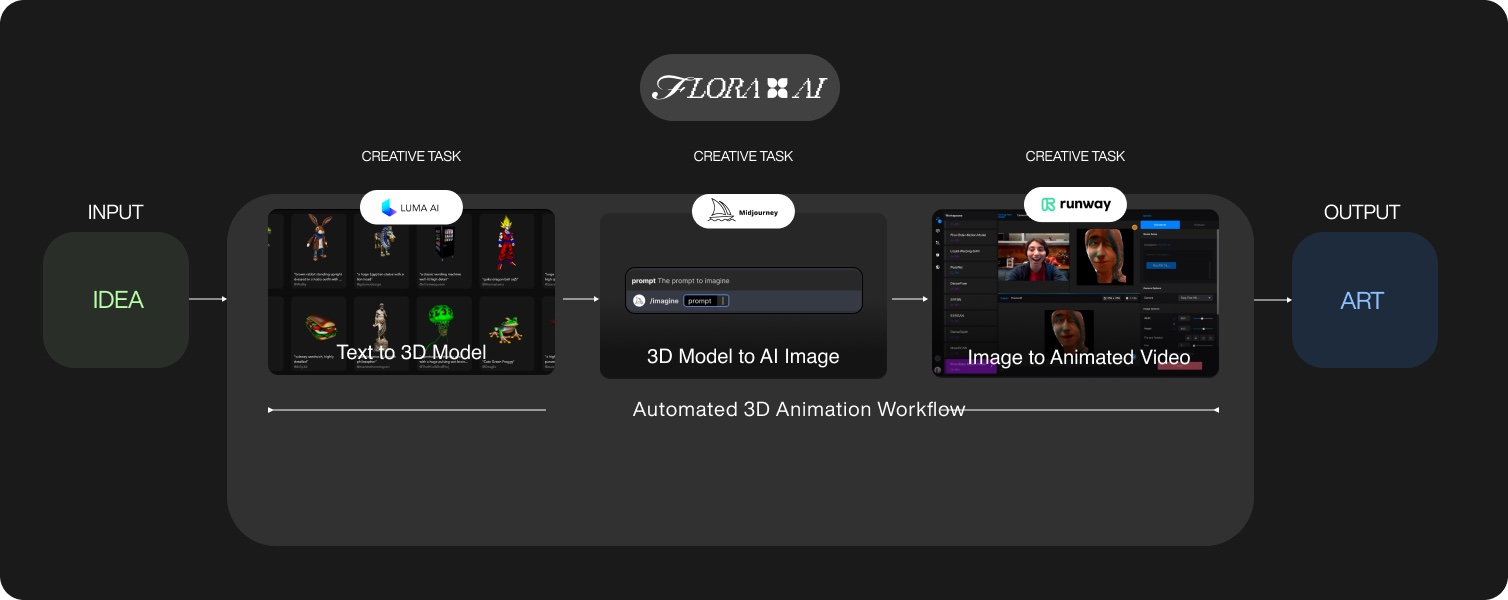
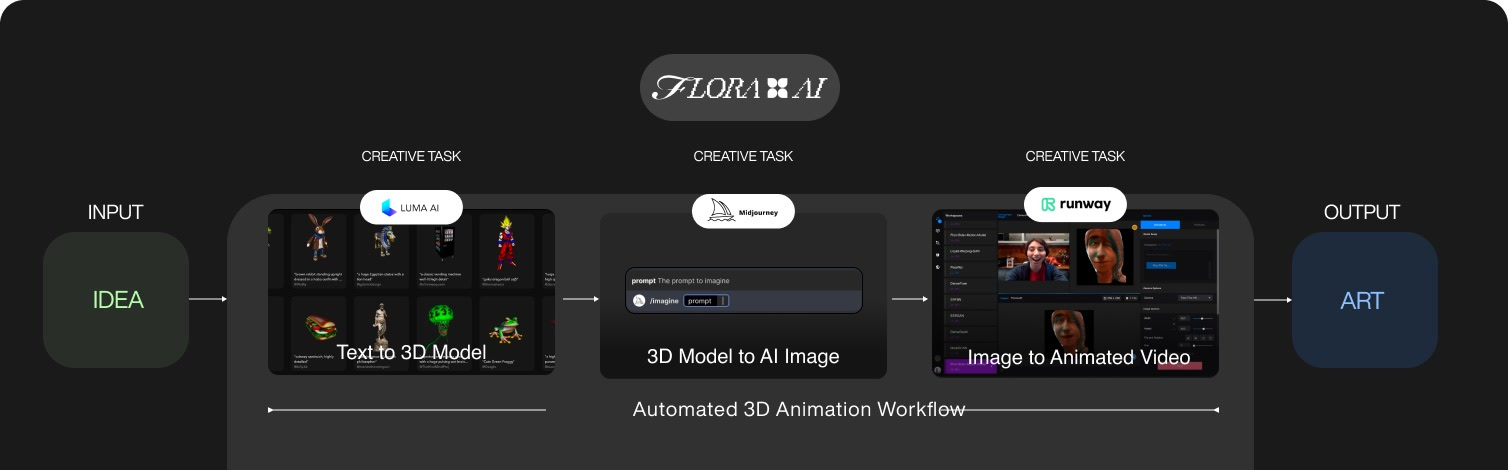
See Live Site, the full type ladder pulled, and two FLORA fixes
The type ladder and the two faces now come off id-idler rather than the baked
block. I had left them baked twice, on the grounds that a naive parse of grouped
tables returns garbage rather than nothing. The contract turned out to be strict:
the ladder is four .ttables carrying identical eight-column headers, the faces
are a fifth with its own. Each is matched on its header row and rejected whole if
it does not match, so a redesign there falls back rather than publishing a
mangled table. Verified both ways again: blocked, the baked six rows stand;
pulled, the six rows match and the faces arrive with their token names and
fallback stacks, which are new.

See Live Site sits under the ledger on the prose column, quiet text and an arrow,
no filled control. Nine of twelve carry one and every URL was checked for a 200
rather than assumed. SOOT, FLORA and Depictions have no live URL anywhere I could
find, so they carry none. The footer's Visit row is suppressed where it would
duplicate the CTA.

Idler's claim is now Identity + Site for Reinforcement Learning Environments.

FLORA: the brand film's caption is removed, and the workflow diagram is cropped
from 1508x600 to 1508x470. Its panel ran on for a third of the frame past its own
content, so the plate was mostly empty ground.

Claude-Session: https://claude.ai/code/session_01HUZNnfyiCCmeMXsRttcQuv

diff --git a/index.html b/index.html
@@ -617,6 +617,16 @@
   .cs-ledger dd{margin:0;color:var(--sw2);}
   .cs-ledger .yr{font-variant-numeric:tabular-nums;}
 
+  /* Sits with the ledger, on the prose column, in the rail's link register:
+     quiet text and an arrow that means "this leaves". No filled control. */
+  .cs-cta{display:grid;grid-template-columns:var(--cs-col) 1fr;gap:var(--cs-gap);
+    margin:-.6rem 0 2.2rem;}
+  .cs-cta a{grid-column:2;}
+  .cs-cta a{justify-self:start;display:inline-flex;align-items:center;gap:.4rem;color:var(--sw2);
+    font-size:.72rem;letter-spacing:.012em;}
+  .cs-cta a:hover{color:var(--accent);}
+  .cs-cta .ar{display:inline-block;width:.62em;height:.62em;}
+  .cs-cta .ar svg{display:block;width:100%;height:100%;}
   /* The plate, carried over from the card so the artifact reads the same in both. */
   .cs-plate{position:relative;width:100%;aspect-ratio:16/9;background:var(--tile);
     overflow:hidden;border-radius:4px;margin-bottom:2.2rem;}
@@ -710,7 +720,8 @@
   }
   @media(max-width:900px){
     .cs{left:0;}
-    .cs-sec,.cs-shot{grid-template-columns:1fr;gap:.7rem;}
+    .cs-sec,.cs-shot,.cs-cta{grid-template-columns:1fr;gap:.7rem;}
+    .cs-cta a{grid-column:1;}
     .cs-ledger{grid-template-columns:repeat(3,1fr);gap:1rem;}
     .cs-sec > :not(.cs-lbl),.cs-shot > figcaption{grid-column:1;}
   }
@@ -918,7 +929,7 @@ document.documentElement.className+=' js';
      Idler additionally carries its brand system read off id-idler.pages.dev — the
      accents, the neutral scale, the six Matter units and the type ladder — checked
      against the live guidelines site, not transcribed from a picture of it. -->
-<script type="application/json" id="cs-data">{"soot":{"name":"SOOT","year":"2024–25","title":"Browsing a Library That Organizes Itself","role":"Lead Product Designer","medium":"Product","status":"Live","hook":"Designed the interaction model for a visual vector database, replacing folders with a spatial field you search, group + publish from.","problem":"Every hard drive is a graveyard of final_v3_REALLY.png. Assets that sort themselves had no precedent as a category. Nobody had drawn the interface primitives yet.","process":"Worked at the primitive level with SOOT, UNNAMED, and Two.much Studio on two questions. What parts does any self-organizing surface need, and how does depth read on a flat screen? Prototyped fast and kept what survived.","solution":"Liquid Metal, a parts library loose enough to prototype any surface quickly, and the Z-index, a way to stack interface in depth so the screen stops pretending to be flat.","impact":"The primitives survived every surface the team tested. For a product still deciding what category it belongs to, that portability was the whole point."},"flora":{"name":"FLORA","year":"2024","title":"Connecting Creative Systems","role":"Founding Designer","medium":"Product","status":"Live","hook":"Designed a node-based canvas that connects creative tools into one process, so a project moves between them without leaving the environment.","shots":[{"src":"/stage/flora/01.mp4","poster":"/stage/flora/01.jpg","ratio":"1440/810","alt":"The FLORA brand film: a glass bloom opening, closing on the wordmark","cap":"A glass bloom opens and closes on the lockup: automating creative systems."},{"src":"/stage/flora/02.jpg","ratio":"1440/810","alt":"An empty FLORA project with the Node Center open: models on the right, logic beneath them","cap":"Project 001, before the first node."},{"src":"/stage/flora/03.jpg","ratio":"1508/600","alt":"The automated 3D animation workflow, idea to art, across three chained creative tasks","cap":"Luma to Midjourney to Runway, chained on the canvas instead of carried between applications by hand."}],"system":{"named":"Hieronymous","board":{"src":"/stage/flora/moodboard.jpg","ratio":"1600/424","alt":"The Hieronymous reference board: Bosch, Nam June Paik, Iris van Herpen, Gisela Colón"},"references":["Hieronymus Bosch","Nam June Paik","Iris van Herpen","Gisela Colón"]}},"idler":{"name":"Idler","year":"2026","title":"A Worldsite for Reinforcement Learning Environments","role":"Design Director","medium":"Identity + Site","status":"Live","hook":"Developed the identity and launch system for Idler, translating its agent-training environments into a visual language across brand, motion, and web.","problem":"Idler builds reinforcement-learning environments and long-horizon evals that push frontier coding models past what any benchmark suite reaches. They sell into the labs training those models.","process":"Strategy first, then a system to carry it. The spine is process: how an environment gets sourced, verified, and graded. That is what a researcher checks before trusting any of it. Grading is pass or fail, never a dense reward signal, and training and eval stay separate tiers. The register is light and exact, against a category that defaults to dark and edge-lit.","impact":"A brand system and a launch worldsite, live at idler.ai. Two weeks for the first sprint, a second for launch collateral and the site expansion.\n\nAn application kit covers the surfaces the product actually needs: leaderboards, task cards, metric switchers, progress with confidence intervals, the five run states. The rest of the documentation is a working reference, with mark files at every lockup and tile, color and grayscale on live tokens, and the motion turns named frame by frame.\n\nThe references are published alongside it. Mohr and LeWitt exhaust the cube as a finite alphabet; Gerstner designs the program that makes the posters. Molnár holds disorder under control. The Ben-Day screen carries tone through density, one mark at one size, which is the whole argument for the halftone read. Aicher runs an entire sign system off a single grid. Turrell occludes the source until the structure appears. A beetle's shell is iridescent from its geometry, with no pigment in it.","system":{"url":"https://id-idler.pages.dev/","swatches":[{"name":"Cinnabar","hex":"#F25D13","note":"Stop"},{"name":"Citrine","hex":"#E2F53A","note":"Queue"},{"name":"Aquamarine","hex":"#39CEF4","note":"Run"},{"name":"Jade","hex":"#39E1B4","note":"Idle"},{"name":"Emerald","hex":"#04A93B","note":"Go"},{"name":"Amethyst","hex":"#CC3AF5","note":""},{"name":"Ruby","hex":"#F53A53","note":""}],"ramp":["#F2F2F2","#EBEBEB","#E0E0E0","#D3D3D3","#C4C4C4","#B3B3B3","#A2A2A2","#8F8F8F","#7C7C7C","#676767","#525252","#3C3C3C"],"units":[{"name":"Proton","token":"circle","form":"circle","state":"fill"},{"name":"Electron","token":"triangle","form":"triangle","state":"fill"},{"name":"Neutron","token":"square","form":"square","state":"fill"},{"name":"Aperture","token":"circle-hole","form":"circle","state":"hole"},{"name":"Portal","token":"triangle-hole","form":"triangle","state":"hole"},{"name":"Socket","token":"square-hole","form":"square","state":"hole"}],"type":{"cols":["Step","Face","Size","Leading","Tracking"],"rows":[["Hero","Tekio Grotesk","4.5 rem / 72 px","90%","-1%"],["Heading","Tekio Grotesk","3 rem / 48 px","90%","-0.5%"],["Statement","Tekio Grotesk","2.25 rem / 36 px","90%","-0.5%"],["Body","Tekio Grotesk","1 rem / 16 px","100%","-0.5%"],["Numeral","PX Grotesk","1 rem / 16 px","90%","0%"],["Caption","PX Grotesk","1 rem / 16 px","100%","1.5%"]]}},"solution":"The mark is the Shell, Idler's model of an environment: a closed structure agents move through and are judged inside. Look down its body diagonal and it flattens to a hexagon of three rhombi, the three near edges meeting in a Y. Neither is drawn. Both fall out of the geometry, so the mark is the space between the faces rather than a line laid over them.\n\nUnder it sits a closed vocabulary. The primitive is a substance, so the category is Matter: three forms, two states, solid or opened. Six units, and no seventh. A seventh would have to declare what it was made of, and there is nothing left to declare. Everything downstream is those six at different densities.","plate":{"src":"/stage/idler/plate.mp4","poster":"/stage/idler/plate.jpg"}},"studio-artifice":{"name":"Studio Artifice","year":"2026","title":"A Strategic Visual Studio, Self-Presented","role":"Founder + Creative Director","medium":"Studio + Site","status":"Live","hook":"Built the studio's own worldsite on the system it sells, with one mark that recombines across every surface the practice appears on."},"osmosis":{"name":"Osmosis","year":"2025","title":"Mist Permeation for RL/ML Identity","role":"Design Director","medium":"Identity + Site","status":"Live","hook":"Directed an identity drawn from Huang Gongwang's Fuchun Mountains, carrying mist, water + stone into one brush-and-wash system.","problem":"Osmosis builds task-specific models that beat the frontier foundation models at a fraction of the cost, but its category (post-training, GRPO, DAPO) reads as jargon to the exact teams who need it most. The name already contained the right idea, intelligence absorbed gradually through contact. It just wasn't doing any work.","process":"Started from that idea and pressure-tested whether it could hold the whole system: positioning, wordmark, type, and a gradient language where absorption itself is the argument.","solution":"A restrained, technical wordmark and type system that survives the jump from a research note to an enterprise deck, plus positioning that reframes RL from a black box into something that seeps into a company's own data and compounds.","impact":"Live at osmosis.ai. Work that used to read as arcane now reads as obvious, and one identity reaches both the engineer skimming a research note and the buyer sitting through the deck."},"lighthouse":{"name":"Lighthouse","year":"2026","title":"U.S. Visas for Frontier Talent","role":"Lead Designer","medium":"Identity + Site","status":"Live","hook":"Designed a two-sided visa product: a talent-facing application + the enterprise stack the hiring company runs it through.","problem":"Most immigration products sell relief from paperwork. Lighthouse sells the opposite: immigration as how a company lands the people everyone else is chasing. Its 1.0 didn't yet carry that weight, and the identity had to convince the HR leaders who actually sign.","process":"Directed and designed the identity up from that 1.0, pushing it to something enterprise-grade without flattening the optimism in the premise. American excellence as a reason for the world's best to move here and build.","solution":"One system across brand and website, credible to the enterprise buyer and built for the sales motion, not the design award.","impact":"An identity aimed squarely at the people making the call on where global talent lands."},"the-artifact-index":{"name":"The Artifact Index","year":"2026","title":"A Structured, Relational Dataset of Creative Process","role":"Creative Director","medium":"Product","status":"Live","hook":"Designed a public archive that keeps every artifact's people, materials + revisions attached to the record, and an open intake anyone can send work to.","problem":"Archives index outputs. The finished piece survives with a date and a credit line, and everything that produced it disappears: the discarded direction, the constraint that forced the pivot, the person who made the call. Cultural work gets remembered as objects when the useful part was always the process.","process":"Built as a relational schema before it was built as a site. Four connected books move from discovery to attribution to place to permanent record, sharing one spine so an artifact can point at the people, the venue, and the world that made it. Two operating modes run through all of it. WHITEBOX is process-visible and reproducible. BLACKBOX is experiential and happens once. A record is one or the other, never both, because that distinction changes what the archive can honestly claim. Attribution and consent live in the schema, not in a policy page nobody reads.","solution":"A free, public, citable dataset of creative process, with provenance on every record and profiles able to restrict or withdraw what they contributed.","impact":"Infrastructure for Artifice NYC programming and the reference layer institutional partners get pitched on. The schema is live and the first events are indexed.","plate":{"src":"/stage/the-artifact-index/plate.mp4","poster":"/stage/the-artifact-index/plate.jpg"}},"industrial-lighting":{"name":"Aputure","year":"2024","title":"One Conversion System Across a Dozen Markets","role":"Designer","medium":"Global Site","status":"Live","hook":"Rebuilt the catalog to sell on what the light does on set, running one template system across every market Aputure ships to.","problem":"Aputure lights real productions, but the site still sold fixtures like hardware. Spec-led, and identical across a dozen markets that each shoot, read, and buy differently. The direction had to catch up to the work.","process":"Rebuilt the site around the buying decision, not the spec sheet. Cinematic, not clinical, so one visual language could serve a gaffer pricing a fixture and a DP reading a case study.","solution":"Full-bleed product heroes, families browsable at a glance, benefit-led headlines over spec dumps, and on-set storytelling running alongside the catalog.","impact":"A global site where lighting reads as craft, running across a dozen localized markets on one system with no per-market fork."},"artifice-brand":{"name":"Artifice Brand Identity","year":"2026","title":"A Living Spec for a Curatorial Research Organization","role":"Creative Director","medium":"Identity","status":"Live","hook":"Wrote the identity for a curatorial research organization as a living spec: carbon + chalk, a single accent, one document that updates as the work does.","system":{"url":"https://brand.artificenyc.org/","swatches":[{"name":"Carbon","hex":"#0E0E0E","note":"Ground"},{"name":"Chalk","hex":"#FCFAF5","note":"Text on carbon"},{"name":"Cobalt","hex":"#0000EE","note":"Links on chalk"},{"name":"Cobalt","hex":"#5A6CFF","note":"Links on carbon"}],"pairs":[{"term":"WHITEBOX","sub":"Lab","def":"Work in development, shown while it is still being made. Rigs stay visible, materials stay labeled, and the maker is usually in the room. Even light, no blackout."},{"term":"BLACKBOX","sub":"Stage","def":"Finished work on a schedule. Performance, film and installation, run for an audience that arrives at a set time. Blackout, sound, projection."}],"marks":[{"name":"Lockup","note":"parent mark","min":"96px wide"},{"name":"Wordmark","note":"fixed art","min":"120px wide"},{"name":"Hexagon","note":"WHITEBOX","min":"24px tall"},{"name":"Asterisk","note":"BLACKBOX","min":"24px tall"}],"type":{"cols":["Step","Size","Case","Tracking"],"rows":[["Display","40–96 px","Sentence","−1.5%"],["Heading","34–64 px","Sentence","−1.5%"],["Subhead","24–48 px","Sentence","−1.5%"],["Body","15–18 px","Sentence","−1.5%"],["Caption/label","11 px","Uppercase","−1%"]]},"face":"Helvetica Now Display"}},"depictions-of-original-sin":{"name":"Google Labs (Veo3)","year":"2025","title":"The Depictions of Original Sin","role":"Creative Director","medium":"Creative Production · In Progress","status":"In Progress","hook":"Directed an immersive projection for an AI film festival, working with six invited creative directors on Veo 3.","problem":"An Artifice × Google Labs collaboration gathering six creative directors around Veo 3. The risk was obvious: a festival of AI-made film reading as six disconnected experiments, not one work.","process":"Creative direction across the program, shaping the through-line that lets six directors work on Veo 3 toward a single immersive projection.","solution":"An immersive projection and AI film festival built on Veo 3, presented as one coherent piece.","impact":"In progress with Google Labs."},"artifactory":{"name":"ARTIFACTORY","year":"2026","title":"Interactive 3D design environment","role":"Designer + Developer","medium":"Product","status":"Live","hook":"Designed and built a browser tool for composing objects, tuning materials and scenes live, and exporting a self-contained embed.","problem":"Motion-graphics reference is everywhere. The tools that make it are not. Every 3D environment asks you to learn it before you can make anything with it, so the people with enough taste to art-direct a shader mostly never touch one. What stops them is the tutorial, not the imagination.","process":"It started as one question: can designing in 3D feel like playing a modular synth? Everything followed from that. A pot sweeps a magnitude. A switch picks a mode. Real hardware makes you feel that difference before you read the legend, so every discrete control got a detented selector with printed words where a dial showing a number would have lied. The trap here is skeuomorphism without the physics. An early knob pass looked right and fought the hand, which is worse than a plain slider would have been. If a control reads as hardware it has to answer like hardware.","solution":"Forty shaders, 91 tunable parameters, and you play it, you don't configure it. Sliders ship next to the knobs as the accessibility floor, the way Ableton and Logic both do. Whatever you tune exports as a self-contained embed that drops into a site with no build step.","impact":"408 commits between April and July 2026 took this from a question to a working environment someone can pick up without a tutorial. What it does not have yet is usage data. That is the next thing to prove."},"biota":{"name":"BIOTA","year":"2025","title":"Prompting as a Social Feed","role":"Designer","medium":"Product","status":"Live","hook":"Designed the logotype, icon set + app assets for a mobile generation tool where every post is a template someone else can remix, and each imagining is metered in water.","problem":"Biota generates photos and video from a text prompt on iOS and Android. Every generation costs the user something real, so the interface has to make the spend legible before it is spent rather than after.","solution":"Generation sits inside a feed rather than behind a blank prompt box. Posts run TOP and NEW, each one carries Remix, and a remix opens the prompt that made it with its media slots and tone already filled in, so the empty state is somebody else's finished work.\n\nSpend is denominated in water. The balance sits in the header, the cost sits on the button that charges it, and the wait has its own state rather than a spinner."}}</script>
+<script type="application/json" id="cs-data">{"soot":{"name":"SOOT","year":"2024–25","title":"Browsing a Library That Organizes Itself","role":"Lead Product Designer","medium":"Product","status":"Live","hook":"Designed the interaction model for a visual vector database, replacing folders with a spatial field you search, group + publish from.","problem":"Every hard drive is a graveyard of final_v3_REALLY.png. Assets that sort themselves had no precedent as a category. Nobody had drawn the interface primitives yet.","process":"Worked at the primitive level with SOOT, UNNAMED, and Two.much Studio on two questions. What parts does any self-organizing surface need, and how does depth read on a flat screen? Prototyped fast and kept what survived.","solution":"Liquid Metal, a parts library loose enough to prototype any surface quickly, and the Z-index, a way to stack interface in depth so the screen stops pretending to be flat.","impact":"The primitives survived every surface the team tested. For a product still deciding what category it belongs to, that portability was the whole point."},"flora":{"name":"FLORA","year":"2024","title":"Connecting Creative Systems","role":"Founding Designer","medium":"Product","status":"Live","hook":"Designed a node-based canvas that connects creative tools into one process, so a project moves between them without leaving the environment.","shots":[{"src":"/stage/flora/01.mp4","poster":"/stage/flora/01.jpg","ratio":"1440/810","alt":"The FLORA brand film: a glass bloom opening, closing on the wordmark"},{"src":"/stage/flora/02.jpg","ratio":"1440/810","alt":"An empty FLORA project with the Node Center open: models on the right, logic beneath them","cap":"Project 001, before the first node."},{"src":"/stage/flora/03.jpg","ratio":"1508/470","alt":"The automated 3D animation workflow, idea to art, across three chained creative tasks","cap":"Luma to Midjourney to Runway, chained on the canvas instead of carried between applications by hand."}],"system":{"named":"Hieronymous","board":{"src":"/stage/flora/moodboard.jpg","ratio":"1600/424","alt":"The Hieronymous reference board: Bosch, Nam June Paik, Iris van Herpen, Gisela Colón"},"references":["Hieronymus Bosch","Nam June Paik","Iris van Herpen","Gisela Colón"]}},"idler":{"name":"Idler","year":"2026","title":"Identity + Site for Reinforcement Learning Environments","role":"Design Director","medium":"Identity + Site","status":"Live","hook":"Developed the identity and launch system for Idler, translating its agent-training environments into a visual language across brand, motion, and web.","problem":"Idler builds reinforcement-learning environments and long-horizon evals that push frontier coding models past what any benchmark suite reaches. They sell into the labs training those models.","process":"Strategy first, then a system to carry it. The spine is process: how an environment gets sourced, verified, and graded. That is what a researcher checks before trusting any of it. Grading is pass or fail, never a dense reward signal, and training and eval stay separate tiers. The register is light and exact, against a category that defaults to dark and edge-lit.","impact":"A brand system and a launch worldsite, live at idler.ai. Two weeks for the first sprint, a second for launch collateral and the site expansion.\n\nAn application kit covers the surfaces the product actually needs: leaderboards, task cards, metric switchers, progress with confidence intervals, the five run states. The rest of the documentation is a working reference, with mark files at every lockup and tile, color and grayscale on live tokens, and the motion turns named frame by frame.\n\nThe references are published alongside it. Mohr and LeWitt exhaust the cube as a finite alphabet; Gerstner designs the program that makes the posters. Molnár holds disorder under control. The Ben-Day screen carries tone through density, one mark at one size, which is the whole argument for the halftone read. Aicher runs an entire sign system off a single grid. Turrell occludes the source until the structure appears. A beetle's shell is iridescent from its geometry, with no pigment in it.","system":{"url":"https://id-idler.pages.dev/","swatches":[{"name":"Cinnabar","hex":"#F25D13","note":"Stop"},{"name":"Citrine","hex":"#E2F53A","note":"Queue"},{"name":"Aquamarine","hex":"#39CEF4","note":"Run"},{"name":"Jade","hex":"#39E1B4","note":"Idle"},{"name":"Emerald","hex":"#04A93B","note":"Go"},{"name":"Amethyst","hex":"#CC3AF5","note":""},{"name":"Ruby","hex":"#F53A53","note":""}],"ramp":["#F2F2F2","#EBEBEB","#E0E0E0","#D3D3D3","#C4C4C4","#B3B3B3","#A2A2A2","#8F8F8F","#7C7C7C","#676767","#525252","#3C3C3C"],"units":[{"name":"Proton","token":"circle","form":"circle","state":"fill"},{"name":"Electron","token":"triangle","form":"triangle","state":"fill"},{"name":"Neutron","token":"square","form":"square","state":"fill"},{"name":"Aperture","token":"circle-hole","form":"circle","state":"hole"},{"name":"Portal","token":"triangle-hole","form":"triangle","state":"hole"},{"name":"Socket","token":"square-hole","form":"square","state":"hole"}],"type":{"cols":["Step","Face","Size","Leading","Tracking"],"rows":[["Hero","Tekio Grotesk","4.5 rem / 72 px","90%","-1%"],["Heading","Tekio Grotesk","3 rem / 48 px","90%","-0.5%"],["Statement","Tekio Grotesk","2.25 rem / 36 px","90%","-0.5%"],["Body","Tekio Grotesk","1 rem / 16 px","100%","-0.5%"],["Numeral","PX Grotesk","1 rem / 16 px","90%","0%"],["Caption","PX Grotesk","1 rem / 16 px","100%","1.5%"]]}},"solution":"The mark is the Shell, Idler's model of an environment: a closed structure agents move through and are judged inside. Look down its body diagonal and it flattens to a hexagon of three rhombi, the three near edges meeting in a Y. Neither is drawn. Both fall out of the geometry, so the mark is the space between the faces rather than a line laid over them.\n\nUnder it sits a closed vocabulary. The primitive is a substance, so the category is Matter: three forms, two states, solid or opened. Six units, and no seventh. A seventh would have to declare what it was made of, and there is nothing left to declare. Everything downstream is those six at different densities.","plate":{"src":"/stage/idler/plate.mp4","poster":"/stage/idler/plate.jpg"},"live":"https://idler.ai"},"studio-artifice":{"name":"Studio Artifice","year":"2026","title":"A Strategic Visual Studio, Self-Presented","role":"Founder + Creative Director","medium":"Studio + Site","status":"Live","hook":"Built the studio's own worldsite on the system it sells, with one mark that recombines across every surface the practice appears on.","live":"https://studioartifice.com"},"osmosis":{"name":"Osmosis","year":"2025","title":"Mist Permeation for RL/ML Identity","role":"Design Director","medium":"Identity + Site","status":"Live","hook":"Directed an identity drawn from Huang Gongwang's Fuchun Mountains, carrying mist, water + stone into one brush-and-wash system.","problem":"Osmosis builds task-specific models that beat the frontier foundation models at a fraction of the cost, but its category (post-training, GRPO, DAPO) reads as jargon to the exact teams who need it most. The name already contained the right idea, intelligence absorbed gradually through contact. It just wasn't doing any work.","process":"Started from that idea and pressure-tested whether it could hold the whole system: positioning, wordmark, type, and a gradient language where absorption itself is the argument.","solution":"A restrained, technical wordmark and type system that survives the jump from a research note to an enterprise deck, plus positioning that reframes RL from a black box into something that seeps into a company's own data and compounds.","impact":"Live at osmosis.ai. Work that used to read as arcane now reads as obvious, and one identity reaches both the engineer skimming a research note and the buyer sitting through the deck.","live":"https://osmosis.ai"},"lighthouse":{"name":"Lighthouse","year":"2026","title":"U.S. Visas for Frontier Talent","role":"Lead Designer","medium":"Identity + Site","status":"Live","hook":"Designed a two-sided visa product: a talent-facing application + the enterprise stack the hiring company runs it through.","problem":"Most immigration products sell relief from paperwork. Lighthouse sells the opposite: immigration as how a company lands the people everyone else is chasing. Its 1.0 didn't yet carry that weight, and the identity had to convince the HR leaders who actually sign.","process":"Directed and designed the identity up from that 1.0, pushing it to something enterprise-grade without flattening the optimism in the premise. American excellence as a reason for the world's best to move here and build.","solution":"One system across brand and website, credible to the enterprise buyer and built for the sales motion, not the design award.","impact":"An identity aimed squarely at the people making the call on where global talent lands.","live":"https://www.lighthousehq.com"},"the-artifact-index":{"name":"The Artifact Index","year":"2026","title":"A Structured, Relational Dataset of Creative Process","role":"Creative Director","medium":"Product","status":"Live","hook":"Designed a public archive that keeps every artifact's people, materials + revisions attached to the record, and an open intake anyone can send work to.","problem":"Archives index outputs. The finished piece survives with a date and a credit line, and everything that produced it disappears: the discarded direction, the constraint that forced the pivot, the person who made the call. Cultural work gets remembered as objects when the useful part was always the process.","process":"Built as a relational schema before it was built as a site. Four connected books move from discovery to attribution to place to permanent record, sharing one spine so an artifact can point at the people, the venue, and the world that made it. Two operating modes run through all of it. WHITEBOX is process-visible and reproducible. BLACKBOX is experiential and happens once. A record is one or the other, never both, because that distinction changes what the archive can honestly claim. Attribution and consent live in the schema, not in a policy page nobody reads.","solution":"A free, public, citable dataset of creative process, with provenance on every record and profiles able to restrict or withdraw what they contributed.","impact":"Infrastructure for Artifice NYC programming and the reference layer institutional partners get pitched on. The schema is live and the first events are indexed.","plate":{"src":"/stage/the-artifact-index/plate.mp4","poster":"/stage/the-artifact-index/plate.jpg"},"live":"https://index.artificenyc.org"},"industrial-lighting":{"name":"Aputure","year":"2024","title":"One Conversion System Across a Dozen Markets","role":"Designer","medium":"Global Site","status":"Live","hook":"Rebuilt the catalog to sell on what the light does on set, running one template system across every market Aputure ships to.","problem":"Aputure lights real productions, but the site still sold fixtures like hardware. Spec-led, and identical across a dozen markets that each shoot, read, and buy differently. The direction had to catch up to the work.","process":"Rebuilt the site around the buying decision, not the spec sheet. Cinematic, not clinical, so one visual language could serve a gaffer pricing a fixture and a DP reading a case study.","solution":"Full-bleed product heroes, families browsable at a glance, benefit-led headlines over spec dumps, and on-set storytelling running alongside the catalog.","impact":"A global site where lighting reads as craft, running across a dozen localized markets on one system with no per-market fork.","live":"https://www.aputure.com"},"artifice-brand":{"name":"Artifice Brand Identity","year":"2026","title":"A Living Spec for a Curatorial Research Organization","role":"Creative Director","medium":"Identity","status":"Live","hook":"Wrote the identity for a curatorial research organization as a living spec: carbon + chalk, a single accent, one document that updates as the work does.","system":{"url":"https://brand.artificenyc.org/","swatches":[{"name":"Carbon","hex":"#0E0E0E","note":"Ground"},{"name":"Chalk","hex":"#FCFAF5","note":"Text on carbon"},{"name":"Cobalt","hex":"#0000EE","note":"Links on chalk"},{"name":"Cobalt","hex":"#5A6CFF","note":"Links on carbon"}],"pairs":[{"term":"WHITEBOX","sub":"Lab","def":"Work in development, shown while it is still being made. Rigs stay visible, materials stay labeled, and the maker is usually in the room. Even light, no blackout."},{"term":"BLACKBOX","sub":"Stage","def":"Finished work on a schedule. Performance, film and installation, run for an audience that arrives at a set time. Blackout, sound, projection."}],"marks":[{"name":"Lockup","note":"parent mark","min":"96px wide"},{"name":"Wordmark","note":"fixed art","min":"120px wide"},{"name":"Hexagon","note":"WHITEBOX","min":"24px tall"},{"name":"Asterisk","note":"BLACKBOX","min":"24px tall"}],"type":{"cols":["Step","Size","Case","Tracking"],"rows":[["Display","40–96 px","Sentence","−1.5%"],["Heading","34–64 px","Sentence","−1.5%"],["Subhead","24–48 px","Sentence","−1.5%"],["Body","15–18 px","Sentence","−1.5%"],["Caption/label","11 px","Uppercase","−1%"]]},"face":"Helvetica Now Display"},"live":"https://brand.artificenyc.org"},"depictions-of-original-sin":{"name":"Google Labs (Veo3)","year":"2025","title":"The Depictions of Original Sin","role":"Creative Director","medium":"Creative Production · In Progress","status":"In Progress","hook":"Directed an immersive projection for an AI film festival, working with six invited creative directors on Veo 3.","problem":"An Artifice × Google Labs collaboration gathering six creative directors around Veo 3. The risk was obvious: a festival of AI-made film reading as six disconnected experiments, not one work.","process":"Creative direction across the program, shaping the through-line that lets six directors work on Veo 3 toward a single immersive projection.","solution":"An immersive projection and AI film festival built on Veo 3, presented as one coherent piece.","impact":"In progress with Google Labs."},"artifactory":{"name":"ARTIFACTORY","year":"2026","title":"Interactive 3D design environment","role":"Designer + Developer","medium":"Product","status":"Live","hook":"Designed and built a browser tool for composing objects, tuning materials and scenes live, and exporting a self-contained embed.","problem":"Motion-graphics reference is everywhere. The tools that make it are not. Every 3D environment asks you to learn it before you can make anything with it, so the people with enough taste to art-direct a shader mostly never touch one. What stops them is the tutorial, not the imagination.","process":"It started as one question: can designing in 3D feel like playing a modular synth? Everything followed from that. A pot sweeps a magnitude. A switch picks a mode. Real hardware makes you feel that difference before you read the legend, so every discrete control got a detented selector with printed words where a dial showing a number would have lied. The trap here is skeuomorphism without the physics. An early knob pass looked right and fought the hand, which is worse than a plain slider would have been. If a control reads as hardware it has to answer like hardware.","solution":"Forty shaders, 91 tunable parameters, and you play it, you don't configure it. Sliders ship next to the knobs as the accessibility floor, the way Ableton and Logic both do. Whatever you tune exports as a self-contained embed that drops into a site with no build step.","impact":"408 commits between April and July 2026 took this from a question to a working environment someone can pick up without a tutorial. What it does not have yet is usage data. That is the next thing to prove.","live":"https://artifactory.pages.dev"},"biota":{"name":"BIOTA","year":"2025","title":"Prompting as a Social Feed","role":"Designer","medium":"Product","status":"Live","hook":"Designed the logotype, icon set + app assets for a mobile generation tool where every post is a template someone else can remix, and each imagining is metered in water.","problem":"Biota generates photos and video from a text prompt on iOS and Android. Every generation costs the user something real, so the interface has to make the spend legible before it is spent rather than after.","solution":"Generation sits inside a feed rather than behind a blank prompt box. Posts run TOP and NEW, each one carries Remix, and a remix opens the prompt that made it with its media slots and tone already filled in, so the empty state is somebody else's finished work.\n\nSpend is denominated in water. The balance sits in the header, the cost sits on the button that charges it, and the wait has its own state rather than a spinner.","live":"https://biota.app"}}</script>
 
 <script>
   // Ease each project entry in as it arrives. Runs first and defensively: .proj is
@@ -1358,6 +1369,12 @@ document.documentElement.className+=' js';
     if(sys.face){
       h+='<dl class="cs-pairs one"><div><dt>Typeface</dt><dd>'+esc(sys.face)+'</dd></div></dl>';
     }
+    if(sys.faces&&sys.faces.length){
+      h+='<dl class="cs-pairs" style="--n:'+sys.faces.length+'">'+sys.faces.map(function(f){
+        return '<div><dt>'+esc(f.name)+'<span class="st"> &middot; '+esc(f.token)+'</span></dt>'
+          + '<dd>'+esc(f.stack)+'</dd></div>';
+      }).join('')+'</dl>';
+    }
     if(sys.type&&sys.type.rows&&sys.type.rows.length){
       h+='<table class="cs-type"><thead><tr>'
         + sys.type.cols.map(function(c){ return '<th>'+esc(c)+'</th>'; }).join('')
@@ -1395,6 +1412,12 @@ document.documentElement.className+=' js';
       + (d.year?'<div><dt>Year</dt><dd class="yr">'+esc(d.year)+'</dd></div>':'')
       + (d.medium?'<div><dt>Medium</dt><dd>'+esc(d.medium)+'</dd></div>':'')
       + '</dl>';
+    if(d.live){
+      out+='<div class="cs-cta"><a href="'+esc(d.live)+'" target="_blank" rel="noopener">'
+        + 'See Live Site <span class="ar" aria-hidden="true"><svg viewBox="0 0 16 16" fill="none" '
+        + 'stroke="currentColor" stroke-width="1.4" stroke-linecap="butt" stroke-linejoin="miter">'
+        + '<path d="M1.6 14.4 14.4 1.6" /><path d="M5.4 1.6H14.4V10.6" /></svg></span></a></div>';
+    }
     out+=plate(card,d);
     // The card shows the hook alone. Where the store has the four-part text the panel
     // carries it; where it doesn't, the hook is the overview and that is the whole entry.
@@ -1432,7 +1455,10 @@ document.documentElement.className+=' js';
     if(d.system&&d.system.url){
       out+='<a href="'+esc(d.system.url)+'" target="_blank" rel="noopener">Open the guidelines</a>';
     }
-    if(href&&!isCaseStudyRoute&&!dupeOfSystem){
+    // The live surface is the CTA above; a second row to it here would be two
+    // controls for one destination.
+    var norm2=function(u){ return norm(u); };
+    if(href&&!isCaseStudyRoute&&!dupeOfSystem&&norm2(href)!==norm2(d.live||'')){
       out+='<a href="'+esc(href)+'" target="_blank" rel="noopener">Visit '
         + esc(href.replace(/^https?:\/\//,'').replace(/\/$/,'')) + '</a>';
     }
@@ -1498,6 +1524,35 @@ document.documentElement.className+=' js';
       .filter(function(h){ return /^#[0-9a-f]{6}$/i.test(h); });
     if(ramp.length) out.ramp=ramp;
 
+    var txt=function(el){ return (el.textContent||'').replace(/\s+/g,' ').trim(); };
+    var tables=[].slice.call(doc.querySelectorAll('table.ttable'));
+    var LADDER=['Preview','Step','Type family','Token','Font weight','Font size','Line height','Tracking'];
+    var rows=[];
+    tables.forEach(function(t){
+      var head=[].slice.call(t.querySelectorAll('thead th')).map(txt);
+      if(head.join('|')!==LADDER.join('|')) return;
+      [].slice.call(t.querySelectorAll('tbody tr')).forEach(function(tr){
+        var c=[].slice.call(tr.cells).map(txt);
+        if(c.length!==LADDER.length) return;
+        // Preview and Token are dropped: one is a specimen glyph, the other is
+        // the variable name, and the panel is showing the scale, not the API.
+        rows.push([c[1],c[2],c[5],c[6],c[7]]);
+      });
+    });
+    if(rows.length>=4){
+      out.type={cols:['Step','Face','Size','Leading','Tracking'],rows:rows};
+    }
+    var faceTable=tables.filter(function(t){
+      return [].slice.call(t.querySelectorAll('thead th')).map(txt).join('|')
+             ==='Preview|Type family|Token|Stack'; })[0];
+    if(faceTable){
+      var faces=[].slice.call(faceTable.querySelectorAll('tbody tr')).map(function(tr){
+        var c=[].slice.call(tr.cells).map(txt);
+        return c.length===4 ? {name:c[1],token:c[2],stack:c[3]} : null;
+      }).filter(Boolean);
+      if(faces.length) out.faces=faces;
+    }
+
     var units=[].slice.call(doc.querySelectorAll('.acell')).map(function(el){
       var means=el.querySelector('.ameans'), token=el.querySelector('.aname');
       if(!means||!token) return null;
@@ -1513,7 +1568,7 @@ document.documentElement.className+=' js';
   function applyIdler(sys){
     if(!sys||!DATA.idler||!DATA.idler.system) return;
     var t=DATA.idler.system, changed=false;
-    ['swatches','ramp','units'].forEach(function(k){
+    ['swatches','ramp','units','type','faces'].forEach(function(k){
       if(sys[k] && JSON.stringify(sys[k])!==JSON.stringify(t[k])){ t[k]=sys[k]; changed=true; }
     });
     // Only redraw if the open panel is the one that changed.

diff --git a/DESIGN.md b/DESIGN.md
@@ -316,6 +316,13 @@ are. `flora`'s cover is the tightest case: it is cut from a 1296-wide GIF and th
 already an upscale — `floraaidemov0.mp4` holds the same screen at 3800x2160 but without the
 ambient glow the designed cover has, so it is a composition change, not a re-encode.
 
+**See Live Site** sits under the ledger on the prose column, in the rail's link register: quiet
+text and an arrow that means "this leaves", no filled control. Nine of the twelve carry one, each
+URL checked for a 200 rather than assumed. SOOT, FLORA and Depictions have no live URL in the
+store, `projects.ts` or the repo, so they carry none rather than one pointing somewhere plausible.
+The footer's old `Visit <domain>` row is suppressed where it would duplicate the CTA — one
+destination, one control.
+
 A project may carry `shots`: extra plates that render under the prose, each with its own
 `ratio` and caption. A 1508/600 diagram cropped into a 16:9 hole loses both its ends, and a
 plate with no line under it makes the reader guess what they are looking at. FLORA carries
@@ -365,9 +372,13 @@ The type table's last row carries no bottom rule. It and the footer's top rule s
 parallel dotted lines with the section's padding between them, and the footer already closes
 the block.
 
-**The type ladder is not pulled.** It is split across several grouped `.ttable`s with a Preview
-column, and a naive parse of that returns garbage rather than nothing, which is worse than a
-copy. It stays baked until id-idler publishes the scale as data.
+**The type ladder and the two faces are pulled too** (2026-09-10). Left baked twice on the grounds
+that a naive parse of grouped tables returns garbage rather than nothing; the contract turned out
+to be strict enough to trust. The ladder is split across four `.ttable`s that all carry the same
+eight headers, and the faces sit in a fifth with its own. Each is matched on its header row and
+rejected whole if it does not match, so a redesign there falls back to the baked block rather than
+publishing a mangled one. Preview and Token are dropped from the ladder: one is a specimen glyph,
+the other is the variable name, and the panel is showing the scale, not the API.
 
 Every pull is a merge over the baked block, never a replacement, and the result is cached for a
 day. A fetch that fails, is blocked, or returns an unrecognised shape leaves the panel exactly
